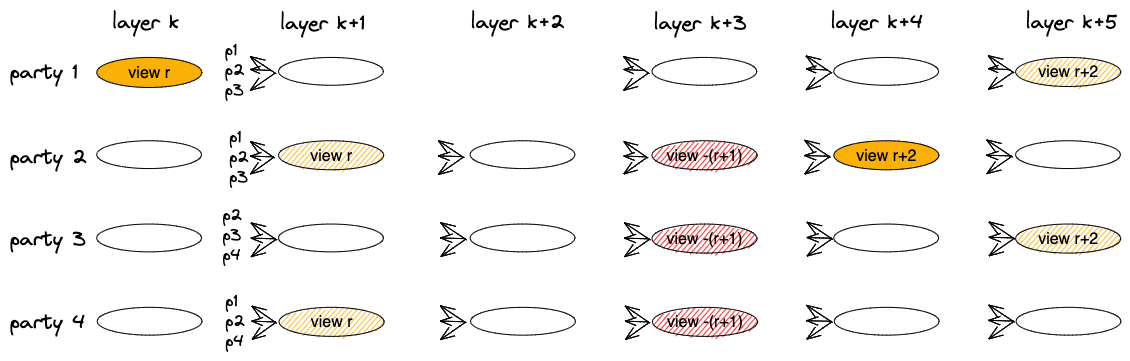
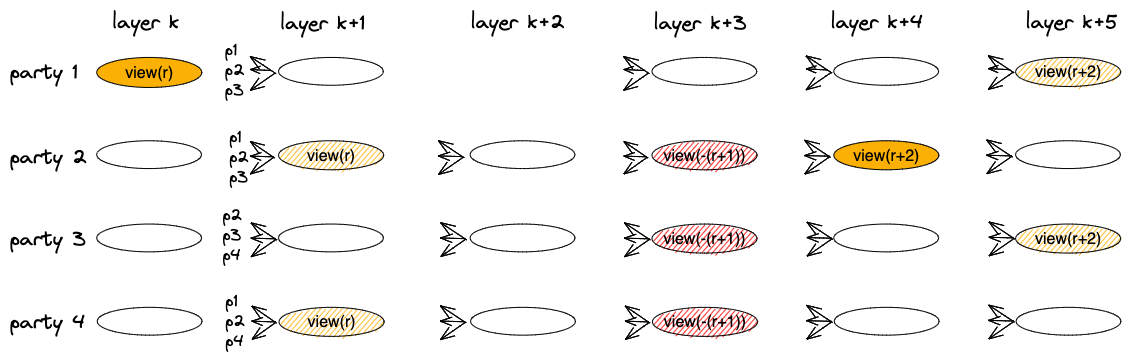
working on DAG draft

diff --git a/_drafts/DAG-BFT.md b/_drafts/DAG-BFT.md
@@ -173,24 +173,24 @@ The progress of `view(r+1)` is similar, with party 2 as `leader(r+1)`, its propo
 If the leader of a view is faulty or disconnected, parties will eventually time out and set their meta-information to minus the view-numver, e.g., `-(r+1)` for a failure of `view(r+1)` . 
 Their next broadcasts are interpreted as reporting a failure of `view(r+1)`, enabling `view(r+2)` to start. 
 
-In the figure below, the first `view(r+1)` message by `leader(r)+1` on layer k+2 does not arrive, denoted as a missing oval. 
+In Figure 3 below, the first view, `view(r)`, proceeds normally. However, no message marked `view(r+1)` by `leader(r)+1` arrives, denoted as a missing oval on layer k+2. 
 Parties 2, 3, 4 report this by setting their meta-information to `-(r+1)`, denoted as striped red ovals in layer k+3.
 
 At layer k+4, the leader of `view(r+2)` posts a messages that has meta-information set to `r+2`, taken as `proposal(r+2)`. 
 Note that this message has in its causal past messages carrying `-(r+1)` meta-information. 
 Hence, faulty views have utility in advancing the global sequence of transaction, just like any other view.
 
-  <img src="/images/FIN/faulty-leader.png" width="700"  class="center"  />
+  <img src="/images/FIN/faulty-leader.png" width="650"  class="center"  />
 
-  **_Figure 3:_** _a faulty `view(r)` and recovery in `view(r+1)`._
+  **_Figure 3:_** _a faulty `view(r+1)` and recovery in `view(r+2)`._
 
 
-A slightly more complex scenario is depicted below. Here, `leader(r)` emits `proposal(r)` in layer k that receives a vote by party 2 in layer k+1.
-However, the proposal is too slow to arrive at parties 3 and 4, and both parties report a view failure in layer k+1. There is no quorum enabling a commit in `view(r)`, nor entering `view(r+1)` yet. Eventually, party 2 also times out and reports a failure of `view(r)` in layer k+2. This enables `view(r+1)` to start and from here on, the progress of the view is similar to the above.
+A slightly more complex scenario is depicted in Figure 4 below. Here, `leader(r+1)` emits `proposal(r+1)` in layer k+2 that receives one vote by party 2 in layer k+3.
+However, the proposal is too slow to arrive at parties 3 and 4, and both parties report a view failure in layer k+3. There is no quorum enabling a commit in `view(r+1)`, nor entering `view(r+2)`. Eventually, party 2 also times out and reports a failure of `view(r+1)` in layer k+4. This enables `view(r+3)` to start and from here on, the progress of the view is similar to the above.
 
   <img src="/images/FIN/faulty-leader2.png" width="500"  class="center"  />
 
-  **_Figure 3:_** _a partially faulty `view(r)` and recovery in `view(r+1)`._
+  **_Figure 4:_** _a partially faulty `view(r+1)` and recovery in `view(r+2)`._
 
 
 ### Fin Analysis
